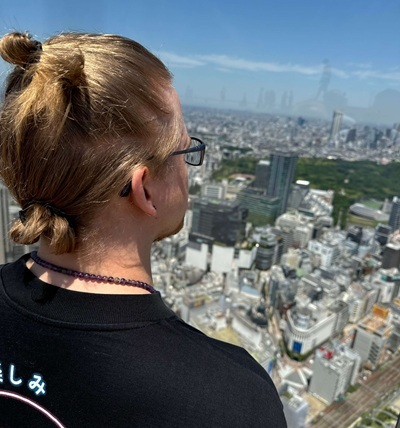
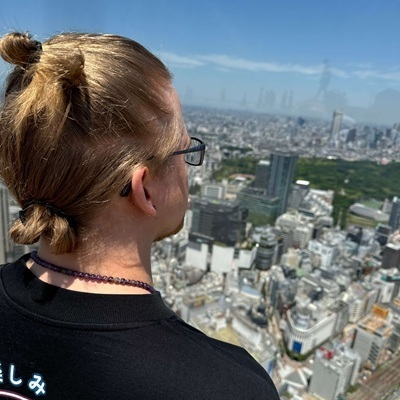
dev: image animation fade

diff --git a/src/routes/dev/+page.svelte b/src/routes/dev/+page.svelte
@@ -1,5 +1,6 @@
 <script>
     import { onMount } from 'svelte';
+    import { fade } from 'svelte/transition';
 
     let images = [
         '/dev/dev1.jpg',
@@ -8,11 +9,18 @@
         '/dev/dev4.jpeg'
     ];
 
-    let randomImage = '';
+    let randomImage = images[0];
+    let showImage = true;
 
     onMount(() => {
-        const randomIndex = Math.floor(Math.random() * images.length);
-        randomImage = images[randomIndex];
+        setInterval(() => {
+            showImage = false; // Fade out the old image
+            setTimeout(() => {
+                const randomIndex = Math.floor(Math.random() * images.length);
+                randomImage = images[randomIndex];
+                showImage = true; // Fade in the new image
+            }, 500); // Match this delay with fade duration
+        }, 9000);
     });
 </script>
 
@@ -43,7 +51,11 @@
                 </div>
                 <div class="text-center xl:text-left">
                     <figure class="mx-auto xl:mr-auto xl:ml-0">
-                        <img src={randomImage} alt="Developer" class="rounded-3xl mx-auto xl:mx-0" />
+                        {#if showImage}
+                            <img src={randomImage} alt="Developer"
+                                 class="rounded-3xl mx-auto xl:mx-0"
+                                 transition:fade={{ duration: 500 }} />
+                        {/if}
                         <figcaption class="caption text-center pt-2">Picture: <a href="/partners">Sergej Dukkardt</a></figcaption>
                     </figure>
                 </div>
